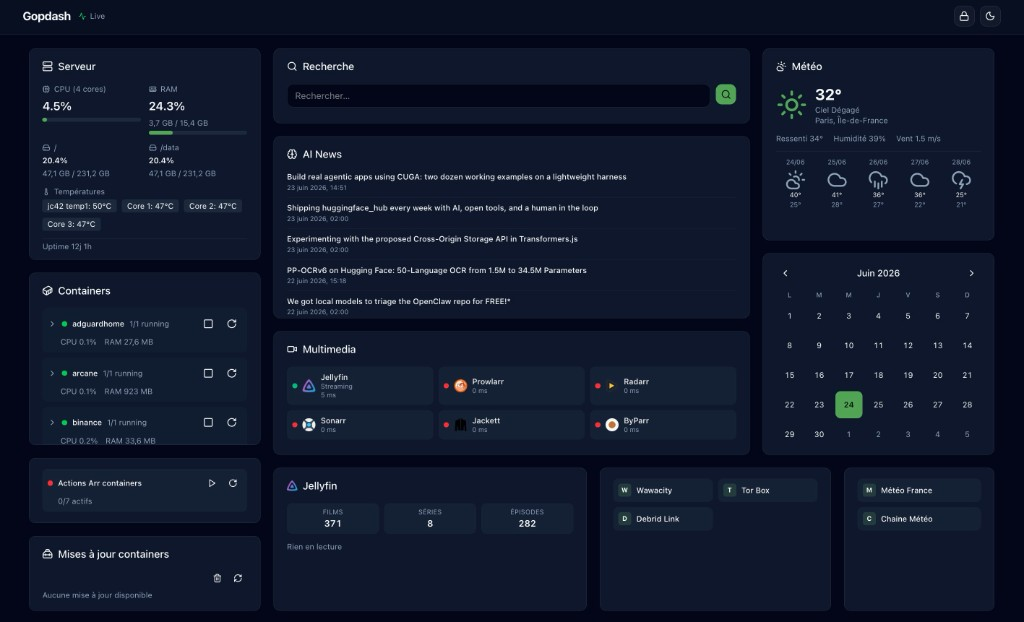
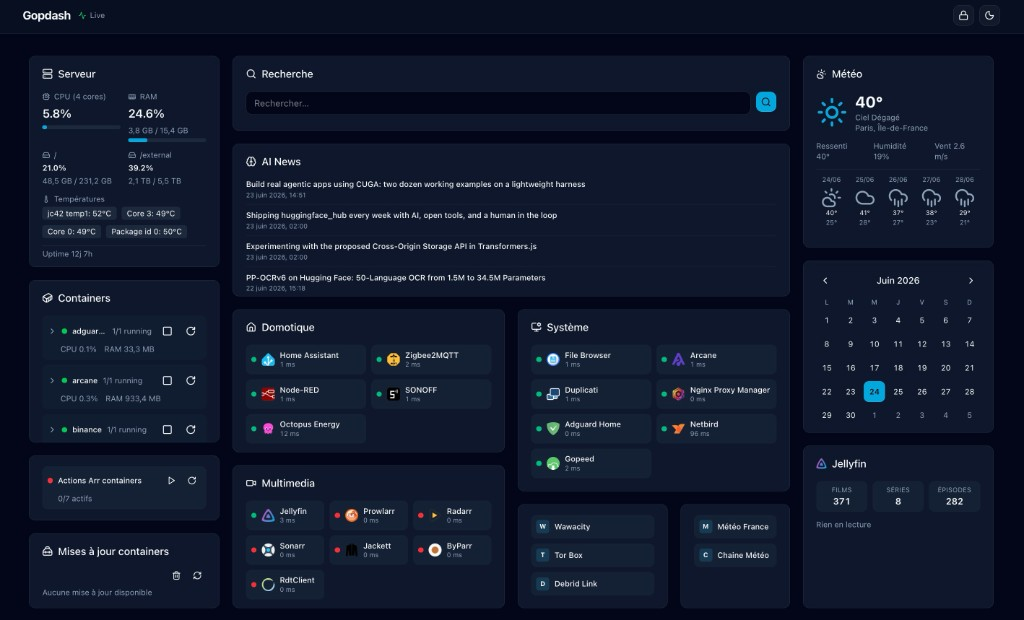
Configure grid layout, make Jellyfin widget open server URL, update README preview

diff --git a/frontend/src/lib/components/widgets/JellyfinWidget.svelte b/frontend/src/lib/components/widgets/JellyfinWidget.svelte
@@ -20,6 +20,7 @@
 	const locale = $derived(resolveLocale(appConfig.data));
 	const refreshMs = $derived((appConfig.data?.refresh_interval ?? 30) * 1000);
 	const configured = $derived(appConfig.data?.jellyfin_configured ?? false);
+	const jellyfinUrl = $derived(appConfig.data?.jellyfin_url ?? null);
 	const showNowPlaying = $derived(widget.show_now_playing ?? true);
 	const showLibraryCounts = $derived(widget.show_library_counts ?? true);
 	const maxSessions = $derived(widget.max_sessions ?? 3);
@@ -73,100 +74,128 @@
 	onDestroy(() => {
 		if (refreshTimer) clearInterval(refreshTimer);
 	});
+
+	function openJellyfin() {
+		if (!jellyfinUrl) return;
+		window.open(jellyfinUrl, '_blank', 'noopener,noreferrer');
+	}
 </script>
 
-<WidgetHeader {widget} title={widget.title ?? 'Jellyfin'} />
-<CardContent>
-	{#if !configured}
-		<p class="text-xs text-muted-foreground">{t('jellyfin_not_configured', locale)}</p>
-	{:else if loading}
-		<p class="text-xs text-muted-foreground">{t('jellyfin_loading', locale)}</p>
-	{:else if error}
-		<p class="text-xs text-destructive">{error}</p>
-	{:else if status}
-		<div class="space-y-3">
-			{#if showLibraryCounts && status.library_counts}
-				<div class="grid grid-cols-3 gap-2 text-center">
-					<div class="rounded-md bg-muted/50 px-2 py-1.5">
-						<div class="text-[10px] uppercase tracking-wide text-muted-foreground">
-							{t('jellyfin_movies', locale)}
-						</div>
-						<div class="text-sm font-semibold tabular-nums">
-							{formatCount(status.library_counts.movies)}
-						</div>
-					</div>
-					<div class="rounded-md bg-muted/50 px-2 py-1.5">
-						<div class="text-[10px] uppercase tracking-wide text-muted-foreground">
-							{t('jellyfin_series', locale)}
-						</div>
-						<div class="text-sm font-semibold tabular-nums">
-							{formatCount(status.library_counts.series)}
-						</div>
-					</div>
-					<div class="rounded-md bg-muted/50 px-2 py-1.5">
-						<div class="text-[10px] uppercase tracking-wide text-muted-foreground">
-							{t('jellyfin_episodes', locale)}
-						</div>
-						<div class="text-sm font-semibold tabular-nums">
-							{formatCount(status.library_counts.episodes)}
-						</div>
-					</div>
-				</div>
-			{/if}
-
-			{#if showNowPlaying}
-				{#if status.now_playing.length === 0}
-					<p class="text-xs text-muted-foreground">{t('jellyfin_nothing_playing', locale)}</p>
-				{:else}
-					<div class="space-y-2">
-						<div class="text-[10px] font-medium uppercase tracking-wide text-muted-foreground">
-							{t('jellyfin_now_playing', locale)}
-						</div>
-						{#each status.now_playing as session (session.item_id + session.user_name)}
-							<div class="flex gap-2 rounded-md border border-border/60 p-2">
-								<img
-									src={api.jellyfinImageUrl(session.item_id)}
-									alt=""
-									class="size-12 shrink-0 rounded object-cover bg-muted"
-									loading="lazy"
-								/>
-								<div class="min-w-0 flex-1 space-y-1">
-									<div class="flex items-start gap-1">
-										{#if session.item_type === 'Episode'}
-											<Tv class="mt-0.5 size-3 shrink-0 text-muted-foreground" />
-										{:else}
-											<Film class="mt-0.5 size-3 shrink-0 text-muted-foreground" />
-										{/if}
-										<div class="min-w-0">
-											<div class="truncate text-xs font-medium">{session.title}</div>
-											<div class="truncate text-[10px] text-muted-foreground">
-												{sessionSubtitle(session)}
-											</div>
-										</div>
-										{#if session.is_paused}
-											<Pause class="ml-auto size-3 shrink-0 text-muted-foreground" />
-										{:else}
-											<Play class="ml-auto size-3 shrink-0 text-primary" />
-										{/if}
-									</div>
-									<div class="h-1 overflow-hidden rounded-full bg-muted">
-										<div
-											class="h-full rounded-full bg-primary transition-all"
-											style:width="{progressPercent(session)}%"
-										></div>
-									</div>
-									<div class="truncate text-[10px] text-muted-foreground">
-										{session.user_name}
-										{#if session.device_name}
-											· {session.device_name}
-										{/if}
-									</div>
-								</div>
+{#snippet body()}
+	<WidgetHeader {widget} title={widget.title ?? 'Jellyfin'} />
+	<CardContent>
+		{#if !configured}
+			<p class="text-xs text-muted-foreground">{t('jellyfin_not_configured', locale)}</p>
+		{:else if loading}
+			<p class="text-xs text-muted-foreground">{t('jellyfin_loading', locale)}</p>
+		{:else if error}
+			<p class="text-xs text-destructive">{error}</p>
+		{:else if status}
+			<div class="space-y-3">
+				{#if showLibraryCounts && status.library_counts}
+					<div class="grid grid-cols-3 gap-2 text-center">
+						<div class="rounded-md bg-muted/50 px-2 py-1.5">
+							<div class="text-[10px] uppercase tracking-wide text-muted-foreground">
+								{t('jellyfin_movies', locale)}
 							</div>
-						{/each}
+							<div class="text-sm font-semibold tabular-nums">
+								{formatCount(status.library_counts.movies)}
+							</div>
+						</div>
+						<div class="rounded-md bg-muted/50 px-2 py-1.5">
+							<div class="text-[10px] uppercase tracking-wide text-muted-foreground">
+								{t('jellyfin_series', locale)}
+							</div>
+							<div class="text-sm font-semibold tabular-nums">
+								{formatCount(status.library_counts.series)}
+							</div>
+						</div>
+						<div class="rounded-md bg-muted/50 px-2 py-1.5">
+							<div class="text-[10px] uppercase tracking-wide text-muted-foreground">
+								{t('jellyfin_episodes', locale)}
+							</div>
+							<div class="text-sm font-semibold tabular-nums">
+								{formatCount(status.library_counts.episodes)}
+							</div>
+						</div>
 					</div>
 				{/if}
-			{/if}
-		</div>
-	{/if}
-</CardContent>
+
+				{#if showNowPlaying}
+					{#if status.now_playing.length === 0}
+						<p class="text-xs text-muted-foreground">{t('jellyfin_nothing_playing', locale)}</p>
+					{:else}
+						<div class="space-y-2">
+							<div class="text-[10px] font-medium uppercase tracking-wide text-muted-foreground">
+								{t('jellyfin_now_playing', locale)}
+							</div>
+							{#each status.now_playing as session (session.item_id + session.user_name)}
+								<div class="flex gap-2 rounded-md border border-border/60 p-2">
+									<img
+										src={api.jellyfinImageUrl(session.item_id)}
+										alt=""
+										class="size-12 shrink-0 rounded object-cover bg-muted"
+										loading="lazy"
+									/>
+									<div class="min-w-0 flex-1 space-y-1">
+										<div class="flex items-start gap-1">
+											{#if session.item_type === 'Episode'}
+												<Tv class="mt-0.5 size-3 shrink-0 text-muted-foreground" />
+											{:else}
+												<Film class="mt-0.5 size-3 shrink-0 text-muted-foreground" />
+											{/if}
+											<div class="min-w-0">
+												<div class="truncate text-xs font-medium">{session.title}</div>
+												<div class="truncate text-[10px] text-muted-foreground">
+													{sessionSubtitle(session)}
+												</div>
+											</div>
+											{#if session.is_paused}
+												<Pause class="ml-auto size-3 shrink-0 text-muted-foreground" />
+											{:else}
+												<Play class="ml-auto size-3 shrink-0 text-primary" />
+											{/if}
+										</div>
+										<div class="h-1 overflow-hidden rounded-full bg-muted">
+											<div
+												class="h-full rounded-full bg-primary transition-all"
+												style:width="{progressPercent(session)}%"
+											></div>
+										</div>
+										<div class="truncate text-[10px] text-muted-foreground">
+											{session.user_name}
+											{#if session.device_name}
+												· {session.device_name}
+											{/if}
+										</div>
+									</div>
+								</div>
+							{/each}
+						</div>
+					{/if}
+				{/if}
+			</div>
+		{/if}
+	</CardContent>
+{/snippet}
+
+{#if jellyfinUrl}
+	<!-- svelte-ignore a11y_click_events_have_key_events -->
+	<!-- svelte-ignore a11y_no_static_element_interactions -->
+	<div
+		class="flex h-full min-h-0 flex-col cursor-pointer"
+		role="link"
+		tabindex="0"
+		onclick={openJellyfin}
+		onkeydown={(e) => {
+			if (e.key === 'Enter' || e.key === ' ') {
+				e.preventDefault();
+				openJellyfin();
+			}
+		}}
+	>
+		{@render body()}
+	</div>
+{:else}
+	{@render body()}
+{/if}

diff --git a/frontend/src/lib/components/Dashboard.svelte b/frontend/src/lib/components/Dashboard.svelte
@@ -14,6 +14,8 @@
 
 	const persistLayout = $derived(appConfig.data?.persist_layout ?? false);
 	const locale = $derived(resolveLocale(appConfig.data));
+	const gridColumns = $derived(appConfig.data?.grid?.columns ?? 24);
+	const gridCellHeight = $derived(appConfig.data?.grid?.cell_height ?? 15);
 
 	const widgets = $derived(
 		appConfig.data && !appConfig.loading ? resolveWidgets(appConfig.data.widgets) : []
@@ -29,6 +31,8 @@
 
 	$effect(() => {
 		if (appConfig.loading || widgets.length === 0 || !gridEl) return;
+		const columns = gridColumns;
+		const cellHeight = gridCellHeight;
 
 		void tick().then(() => {
 			if (!gridEl || widgets.length === 0) return;
@@ -40,8 +44,8 @@
 
 			grid = GridStack.init(
 				{
-					column: 12,
-					cellHeight: 15,
+					column: columns,
+					cellHeight: cellHeight,
 					margin: 10,
 					animate: true,
 					float: true,

diff --git a/frontend/src/lib/types.ts b/frontend/src/lib/types.ts
@@ -94,11 +94,18 @@ export interface AppConfig {
 	bookmark_groups: string[];
 	rss_feeds: string[];
 	jellyfin_configured: boolean;
+	jellyfin_url: string | null;
 	search_engines: SearchEngineConfig[];
 	theme: ThemeConfig;
 	persist_layout: boolean;
 	locale: string;
 	timezone: string;
+	grid: GridSettings;
+}
+
+export interface GridSettings {
+	columns: number;
+	cell_height: number;
 }
 
 export interface LayoutSaveResponse {

diff --git a/frontend/src/lib/components/ui/card/card-content.svelte b/frontend/src/lib/components/ui/card/card-content.svelte
@@ -13,7 +13,7 @@
 <div
 	bind:this={ref}
 	data-slot="card-content"
-	class={cn("px-5 group-data-[size=sm]/card:px-3", className)}
+	class={cn("px-4 group-data-[size=sm]/card:px-3", className)}
 	{...restProps}
 >
 	{@render children?.()}

diff --git a/frontend/src/lib/components/ui/card/card-header.svelte b/frontend/src/lib/components/ui/card/card-header.svelte
@@ -14,7 +14,7 @@
 	bind:this={ref}
 	data-slot="card-header"
 	class={cn(
-		"gap-1 rounded-t-xl px-5 group-data-[size=sm]/card:px-3 [.border-b]:pb-4 group-data-[size=sm]/card:[.border-b]:pb-3 group/card-header @container/card-header grid auto-rows-min items-start has-data-[slot=card-action]:grid-cols-[1fr_auto] has-data-[slot=card-description]:grid-rows-[auto_auto]",
+		"gap-1 rounded-t-xl px-4 group-data-[size=sm]/card:px-3 [.border-b]:pb-4 group-data-[size=sm]/card:[.border-b]:pb-3 group/card-header @container/card-header grid auto-rows-min items-start has-data-[slot=card-action]:grid-cols-[1fr_auto] has-data-[slot=card-description]:grid-rows-[auto_auto]",
 		className
 	)}
 	{...restProps}

diff --git a/backend/src/config.rs b/backend/src/config.rs
@@ -362,6 +362,31 @@ fn default_theme_preset() -> ThemePreset {
 }
 
 #[derive(Debug, Clone, Deserialize, Serialize)]
+pub struct GridSettings {
+    #[serde(default = "default_grid_columns")]
+    pub columns: u32,
+    #[serde(default = "default_grid_cell_height")]
+    pub cell_height: u32,
+}
+
+impl Default for GridSettings {
+    fn default() -> Self {
+        Self {
+            columns: default_grid_columns(),
+            cell_height: default_grid_cell_height(),
+        }
+    }
+}
+
+fn default_grid_columns() -> u32 {
+    24
+}
+
+fn default_grid_cell_height() -> u32 {
+    15
+}
+
+#[derive(Debug, Clone, Deserialize, Serialize)]
 pub struct SettingsConfig {
     #[serde(default = "default_persist_layout")]
     pub persist_layout: bool,
@@ -371,6 +396,8 @@ pub struct SettingsConfig {
     /// IANA, ex. Europe/Paris
     #[serde(default = "default_timezone")]
     pub timezone: String,
+    #[serde(default)]
+    pub grid: GridSettings,
 }
 
 impl Default for SettingsConfig {
@@ -379,6 +406,7 @@ impl Default for SettingsConfig {
             persist_layout: default_persist_layout(),
             locale: default_locale(),
             timezone: default_timezone(),
+            grid: GridSettings::default(),
         }
     }
 }

diff --git a/backend/src/routes/api.rs b/backend/src/routes/api.rs
@@ -57,10 +57,18 @@ struct PublicConfig {
     rss_feeds: Vec<String>,
     search_engines: Vec<SearchEngineConfig>,
     jellyfin_configured: bool,
+    jellyfin_url: Option<String>,
     theme: PublicTheme,
     persist_layout: bool,
     locale: String,
     timezone: String,
+    grid: PublicGrid,
+}
+
+#[derive(Serialize)]
+struct PublicGrid {
+    columns: u32,
+    cell_height: u32,
 }
 
 #[derive(Serialize)]
@@ -88,10 +96,22 @@ impl From<&AppConfig> for PublicConfig {
             jellyfin_configured: c.jellyfin.as_ref().is_some_and(|j| {
                 !j.url.trim().is_empty() && !j.api_key.trim().is_empty()
             }),
+            jellyfin_url: c.jellyfin.as_ref().and_then(|j| {
+                let url = j.url.trim();
+                if url.is_empty() {
+                    None
+                } else {
+                    Some(url.trim_end_matches('/').to_string())
+                }
+            }),
             theme: PublicTheme::from(&c.theme),
             persist_layout: c.settings.persist_layout,
             locale: c.settings.locale.clone(),
             timezone: c.settings.timezone.clone(),
+            grid: PublicGrid {
+                columns: c.settings.grid.columns,
+                cell_height: c.settings.grid.cell_height,
+            },
         }
     }
 }

diff --git a/README.md b/README.md
@@ -159,6 +159,9 @@ settings:
   persist_layout: true
   locale: fr-FR          # BCP 47 — fr-FR, en-US…
   timezone: Europe/Paris # IANA — Europe/Paris, America/New_York…
+  grid:
+    columns: 24          # colonnes Gridstack (défaut : 24)
+    cell_height: 15      # hauteur d'une cellule en px (défaut : 15)
 ```
 
 Ces valeurs sont exposées via `/api/config` et utilisées par les widgets (dates, unités, libellés).